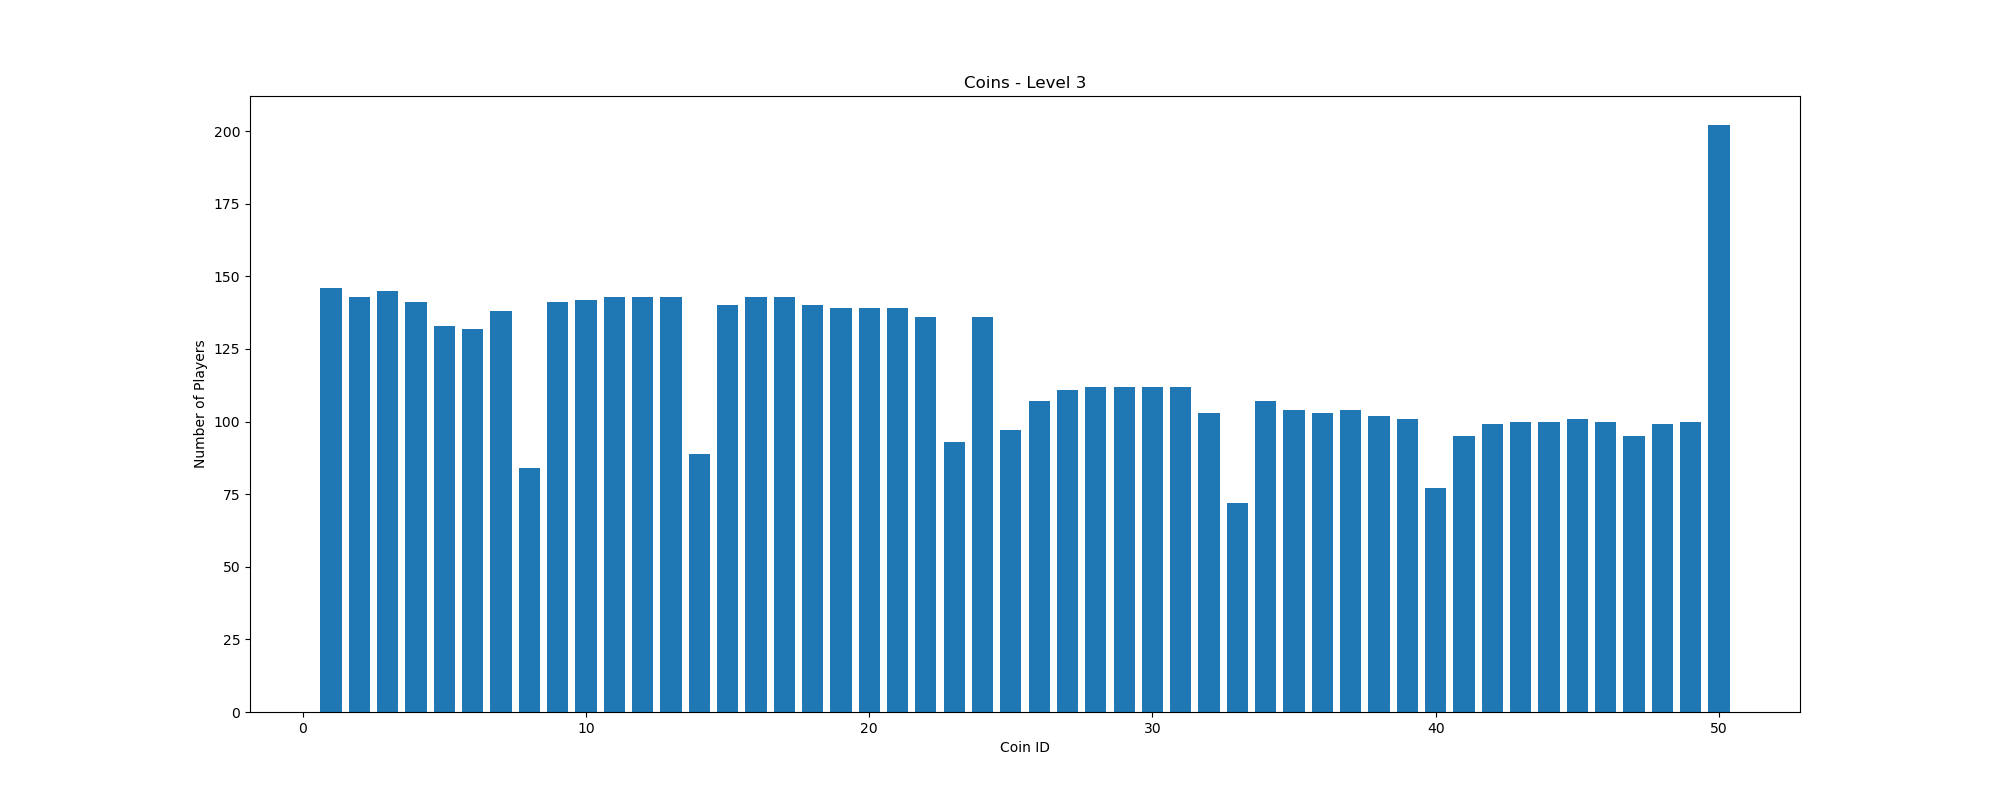
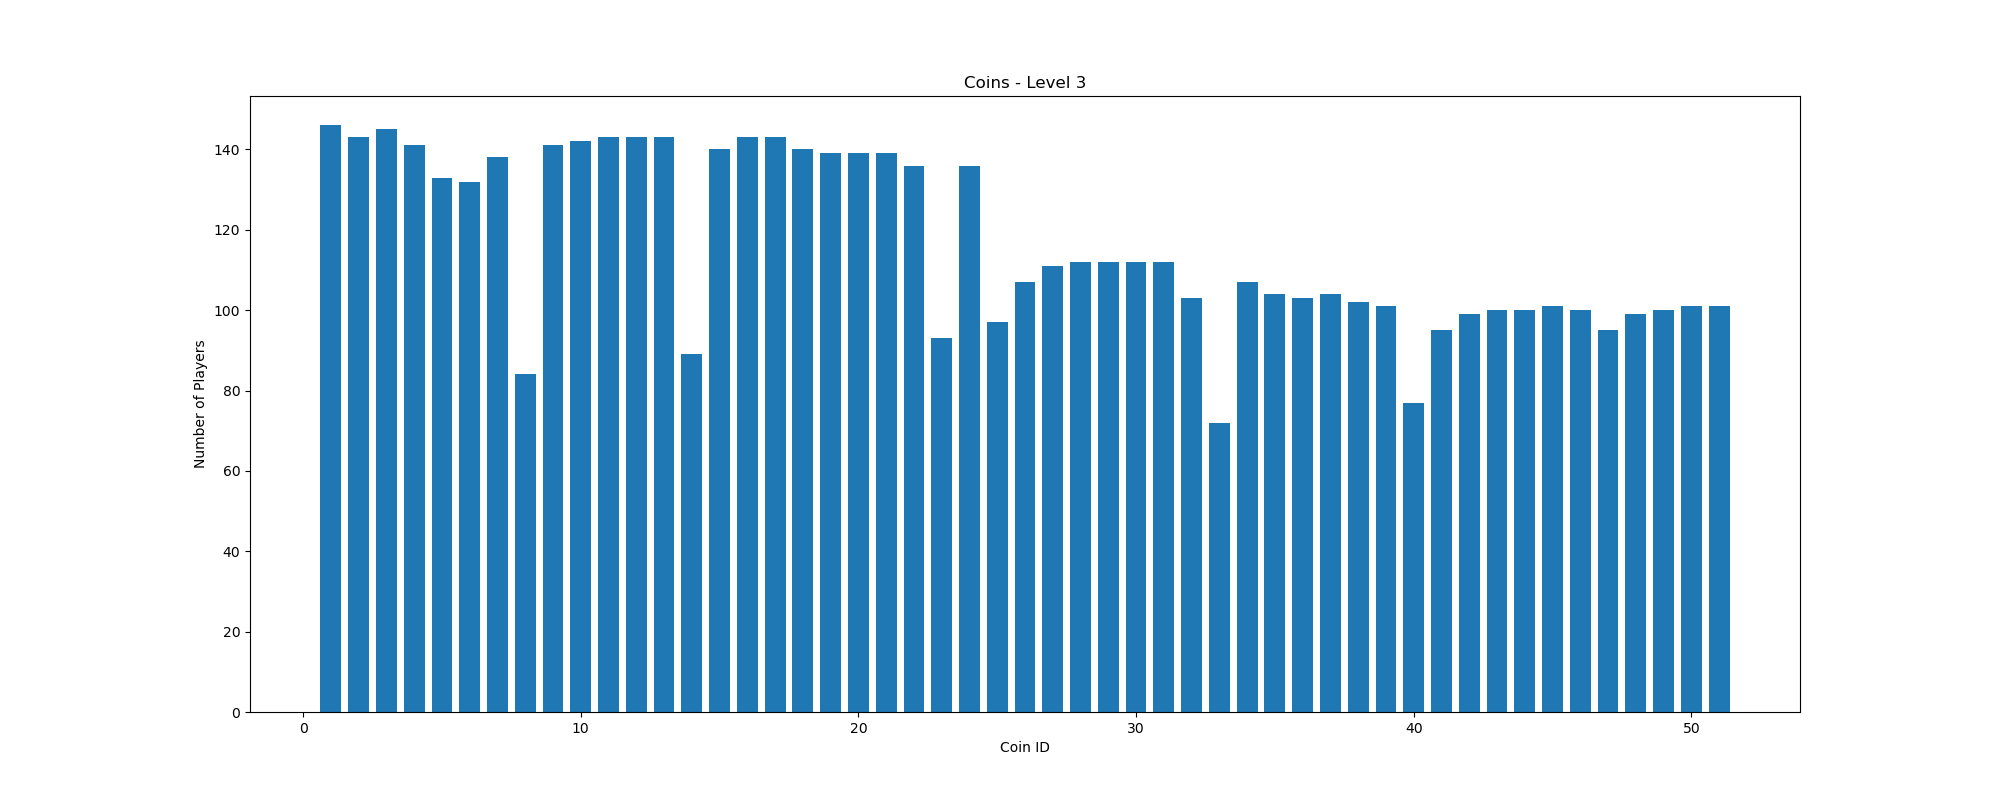
Elements charts

Changed region(s): [[0.155, 0.1562, 0.868, 0.9062], [0.093, 0.6875, 0.124, 0.7188], [0.093, 0.1562, 0.124, 0.1875]]

diff --git a/data-analysis/analyse-elements.py b/data-analysis/analyse-elements.py
@@ -2,7 +2,7 @@ import pandas as pd
 from matplotlib import pyplot as plt
 import numpy as np
 from ast import literal_eval
-from scipy.stats import pearsonr, spearmanr
+from scipy.stats import pearsonr, spearmanr, kendalltau
 from personality import Personality
 
 CoinsPerLevel = [77, 0, 51, 41, 70, 21, 54, 0, 0, 41, 52, 0]
@@ -17,7 +17,6 @@ def getPersonalityElementsFromDataFrame(df, elem_col):
 
     return elements
 
-    
 def getElementsFromDataFrame(df, elem_col):
     elements = []
 
@@ -27,14 +26,14 @@ def getElementsFromDataFrame(df, elem_col):
     return elements
 
 def plot(df, elem_col, num_elems, plot_title, x_label):
-    element = getElementsFromDataFrame(df, elem_col)
+    elements = getElementsFromDataFrame(df, elem_col)
 
-    bins = []
-    for i in range(1, num_elems + 1):
-        bins += [i]
+    plot_bins = []
+    for i in range(1, num_elems + 2):
+        plot_bins.append(i)
 
     fig, ax = plt.subplots(figsize =(20, 8))
-    ax.hist(np.array(element), bins = bins, rwidth=0.75, align='left')
+    ax.hist(np.array(elements), bins = plot_bins, rwidth=0.75, align='left')
     ax.set_title(plot_title)
     ax.set_xlabel(x_label)
     ax.set_ylabel('Number of Players')
@@ -42,8 +41,6 @@ def plot(df, elem_col, num_elems, plot_title, x_label):
     fig.savefig('./images/{}'.format(plot_title))
 
     plt.close(fig)
-
-    return element
 
 def createPersonality(df):
     extraversion = getPersonalityElementsFromDataFrame(df, 'Extraversion') 
@@ -84,11 +81,28 @@ def correlateElementsAndTraits(df, Level, elem_col, noElems, personality):
         if corrE_S >= 0.5 or corrA_S >= 0.5 or corrC_S >= 0.5 or corrN_S >= 0.5 or corrO_S >= 0.5:
             print("SPEARMAN: Level-{} {}-{}: {}; {}; {}; {}; {}".format(Level, elem_col, i, corrE_S, corrA_S, corrC_S, corrN_S, corrO_S))
 
+        corrE_K, _ = kendalltau(personality.extraversion, elements[i])
+        corrA_K, _ = kendalltau(personality.aggreableness, elements[i])
+        corrC_K, _ = kendalltau(personality.conscientiousness, elements[i])
+        corrN_K, _ = kendalltau(personality.neuroticism, elements[i])
+        corrO_K, _ = kendalltau(personality.openness, elements[i])
+
+        if corrE_K >= 0.5 or corrA_K >= 0.5 or corrC_K >= 0.5 or corrN_K >= 0.5 or corrO_K >= 0.5:
+            print("SPEARMAN: Level-{} {}-{}: {}; {}; {}; {}; {}".format(Level, elem_col, i, corrE_K, corrA_K, corrC_K, corrN_K, corrO_K))
+
 demographics = pd.read_excel(r'First Prototype.xlsx', sheet_name='Demographics').drop_duplicates(['GUID'], keep='last')
 
 for Level in range(1, 13):
     level_data = pd.read_excel(r'First Prototype.xlsx', sheet_name='Level_{}'.format(Level)).drop_duplicates(['GUID'], keep='last')
     df = demographics.merge(level_data)
+
+    if Level == 3:
+        it = 0
+        for elem in pd.DataFrame(df, columns=['collectedCoins']).values:
+            for e in literal_eval(elem[0]):
+                if e == 1:
+                    it += 1
+        print('{} - {} - {}'.format(len(pd.DataFrame(df, columns=['collectedCoins']).values), it, CoinsPerLevel[Level - 1]))
 
     p = createPersonality(df) # Personality Traits
  
@@ -101,7 +115,6 @@ for Level in range(1, 13):
         
     if EnemiesPerLevel[Level - 1] != 0:
         plot(df, 'killedEnemies', EnemiesPerLevel[Level - 1], 'Enemies - Level {}'.format(Level), 'Enemy ID')
-
 
 # Show plot
 # plt.show()
